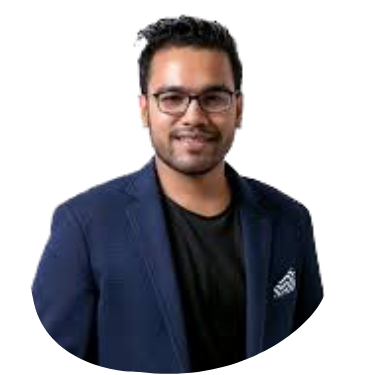
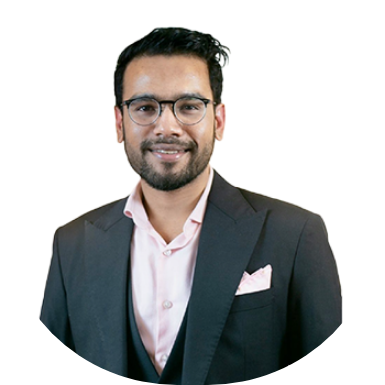
ihd team's picture changed, new image added in the gallery

diff --git a/components/Home/HomeGrid/HomeGrid.js b/components/Home/HomeGrid/HomeGrid.js
@@ -2,7 +2,7 @@ import React, { useState, useEffect } from "react";
 import rightArrow from "../../../public/right_arrow.svg";
 import Link from "next/link";
 import useFetch from "../../Hooks/useFetch";
-import crossWhite from '../../../public/cross_white.svg'
+import crossWhite from "../../../public/cross_white.svg";
 
 const HomeGrid = () => {
   const community = useFetch("/get-community");
@@ -32,7 +32,9 @@ const HomeGrid = () => {
         </div>
         <div className="home_image_grid_header_right">
           <Link href="/stories">
-              <a><h4>view stories</h4></a>
+            <a>
+              <h4>view stories</h4>
+            </a>
           </Link>
           <span>
             <img src={rightArrow.src} />
@@ -77,7 +79,7 @@ const HomeGrid = () => {
           {showPopUp && (
             <div className="home_image_grid_body_pop" onClick={handlePopUpClose}>
               <div className="home_image_grid_body_pop_cross" onClick={handlePopUpClose}>
-                <img src={crossWhite.src}/>
+                <img src={crossWhite.src} />
               </div>
               {popUp.map((popImage) => (
                 <img src={baseUrlForImages + popImage.image} key={popImage.id} />

diff --git a/components/Shared/Navbar/Navbar.js b/components/Shared/Navbar/Navbar.js
@@ -67,16 +67,16 @@ const Navbar = () => {
               </ul>
             </li>
             <li>
-              Co-Working
+              Coworking
               <span className="nav_list_arrow_container">
                 <img src={downArrow.src} alt="arrow down" />
               </span>
               <ul>
                 <li onClick={handleMenuClose}>
-                  <Link href="/co-working/membership">membership</Link>
+                  <Link href="/coworking/membership">membership</Link>
                 </li>
                 <li onClick={handleMenuClose}>
-                  <Link href="/co-working/faq">FAQ</Link>
+                  <Link href="/coworking/faq">FAQ</Link>
                 </li>
               </ul>
             </li>

diff --git a/components/EventSpaces/content.js b/components/EventSpaces/content.js
@@ -83,7 +83,7 @@ export const spaces = [
   {
     image: "hub-cafe.png",
     title: "Hub Cafe BDT 2000/2hr",
-    size: 1200,
+    size: 600,
     seating: 20,
     description:
       "A lofty, spacious open space for your inspiring events, hackathons, innovation labs, innovative workshops, networking and more.",
@@ -121,7 +121,7 @@ export const spaces = [
   {
     image: "board-meeting-room.webp",
     title: "Board Meeting Room BDT 1200/hrs",
-    size: 1200,
+    size: 240,
     seating: 15,
     description:
       "A lofty, spacious open space for your inspiring events, hackathons, innovation labs, innovative workshops, networking and more.",

diff --git a/components/Home/HomeHero/HomeHero.js b/components/Home/HomeHero/HomeHero.js
@@ -6,8 +6,12 @@ const HomeHero = () => {
     <section className="home_hero">
       <video src="/video/hero_video.mp4" type="video/mp4" autoPlay muted loop></video>
       <div className="home_hero_book">
-        <Link href='/co-working/membership'>
-          <a><button>Book <br/> Now!</button></a>
+        <Link href="/coworking/membership">
+          <a>
+            <button>
+              Book <br /> Now!
+            </button>
+          </a>
         </Link>
       </div>
     </section>

diff --git a/components/Shared/MembershipCard/MembershipCard.scss b/components/Shared/MembershipCard/MembershipCard.scss
@@ -176,7 +176,7 @@
     height: -webkit-fit-content;
     height: -moz-fit-content;
     height: fit-content;
-    padding: 5rem 0;
+    padding: 10rem 0;
     @include response(vp-800) {
       padding: 25rem 0;
     }
@@ -216,7 +216,7 @@
   -o-transition: max-height 1s ease;
   transition: max-height 1s ease;
   @include response(vp-800) {
-    min-height: 130vw;
+    min-height: 140vw;
   }
 }
 

diff --git a/components/Membership/Membership.scss b/components/Membership/Membership.scss
@@ -3,7 +3,7 @@
 .membership_container {
   height: 170rem;
   @include response(vp-800) {
-    height: 410rem;
+    height: 450rem;
   }
   position: relative;
   &_bg {
